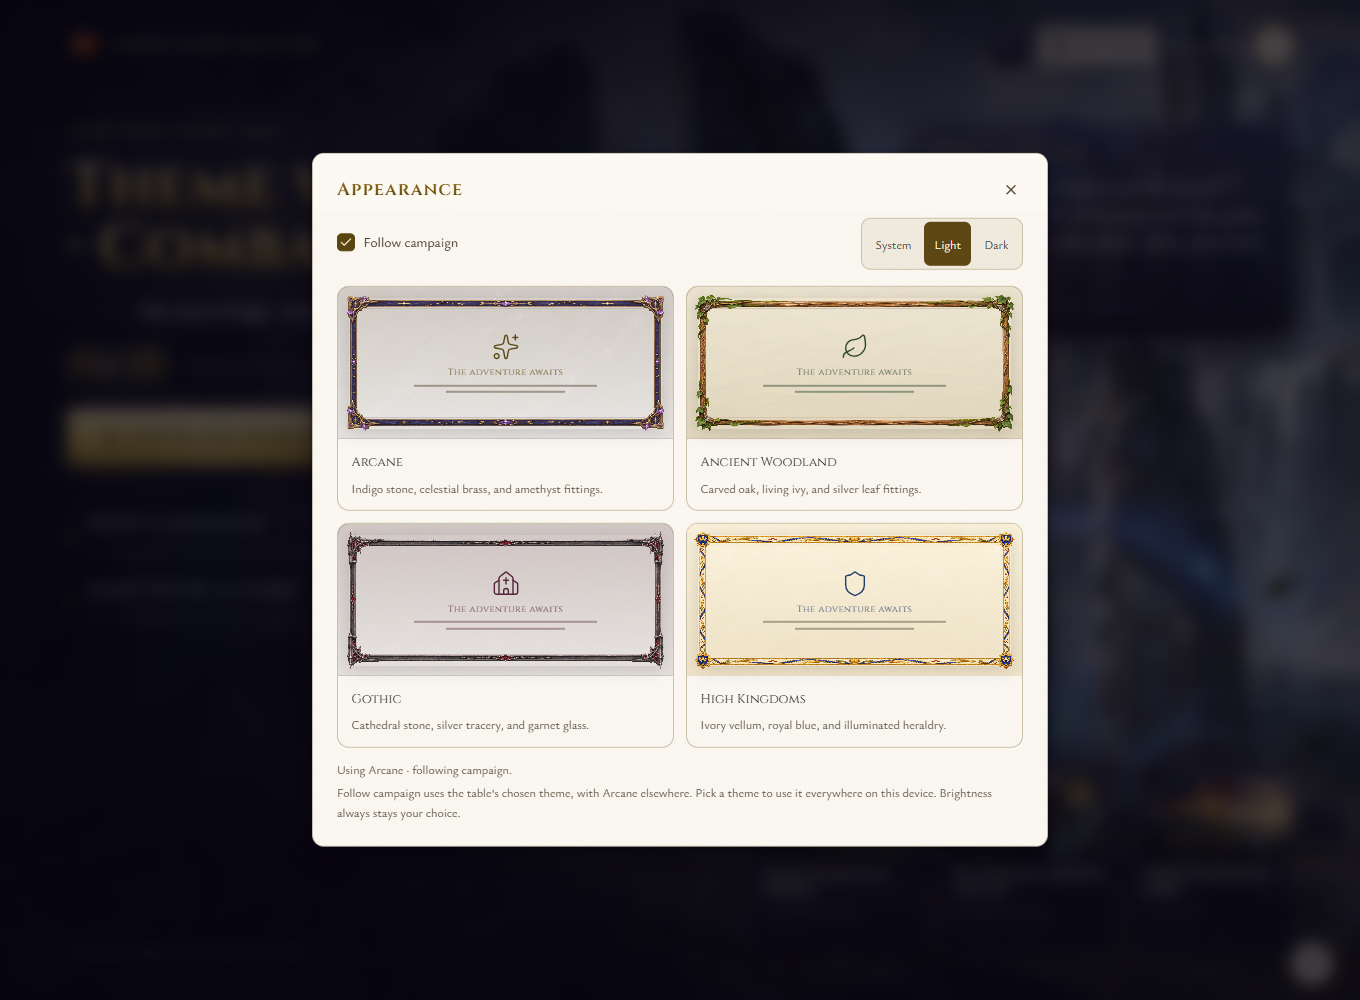
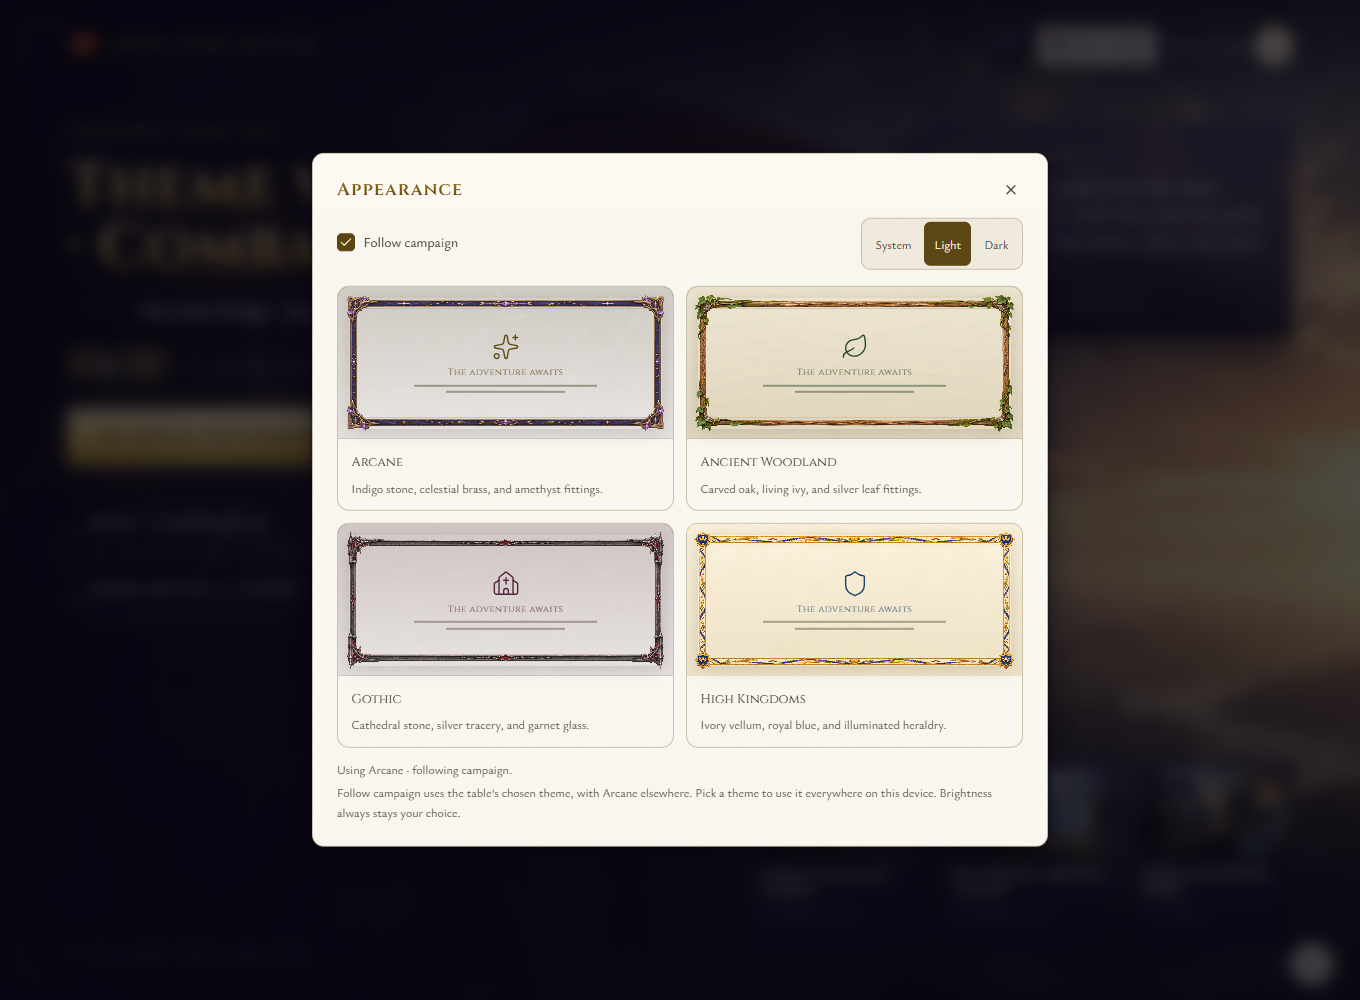
Record the final High Kingdoms map-label contrast and production checks.

Changed region(s): [[0.7721, 0.186, 1.0, 0.713], [0.8956, 0.775, 0.9574, 0.837], [0.7721, 0.651, 0.8029, 0.744]]

diff --git a/README.md b/README.md
@@ -1,14 +1,16 @@
 # High Kingdoms visual review
 
 Review-only evidence for the High Kingdoms appearance, code commit
-`a5f7dc8141e40eb62e7bb60415563411b3513580` on `codex/high-kingdoms-theme`.
+`fbf856bb05bca89b02a34850f2a0efbb3f691662` on `codex/high-kingdoms-theme`.
 The theme depends on draft PR 962. Captured November 14, 2026 (Toronto).
 All campaigns, characters and room codes are disposable fictional fixtures.
 No production databases, browser profiles or server logs are included.
 
 The final development matrix passed 43 checks, followed by six picker checks
 after adding image-decoding readiness to prevent incomplete cold captures.
-The production build passed the same 43 checks. The gallery uses final
+The final production build passed the same 43 checks after correcting the
+in-map hand label to use gilt ink in day mode. Development results precede
+that final text-color correction. The gallery uses final
 production captures; the JSON reports preserve both sets of geometry results.
 The two desktop lobby invite labels use a fictional example.invalid address
 for publication; their QR images still point to the now-stopped disposable
